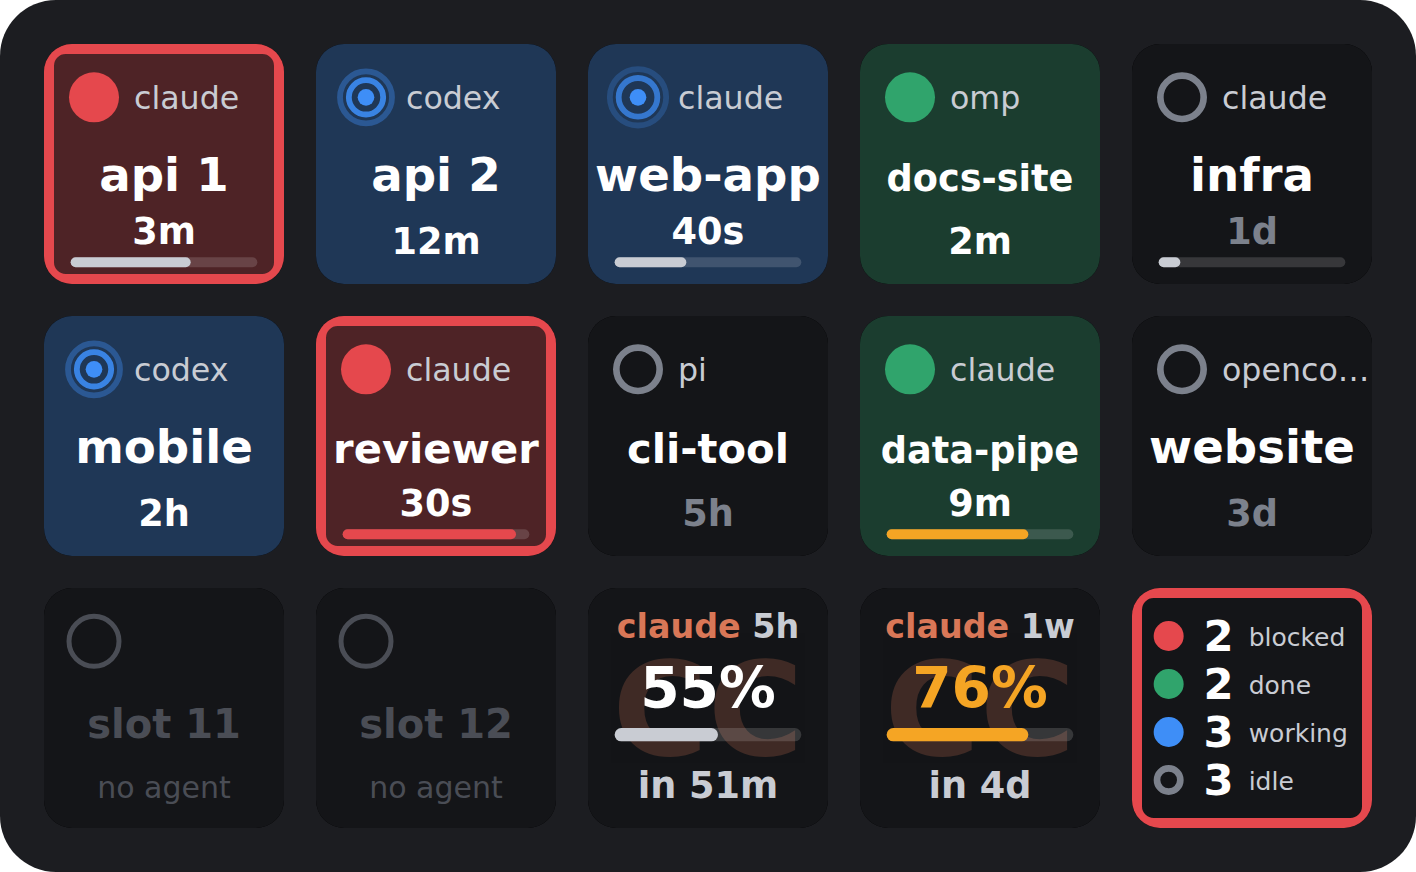
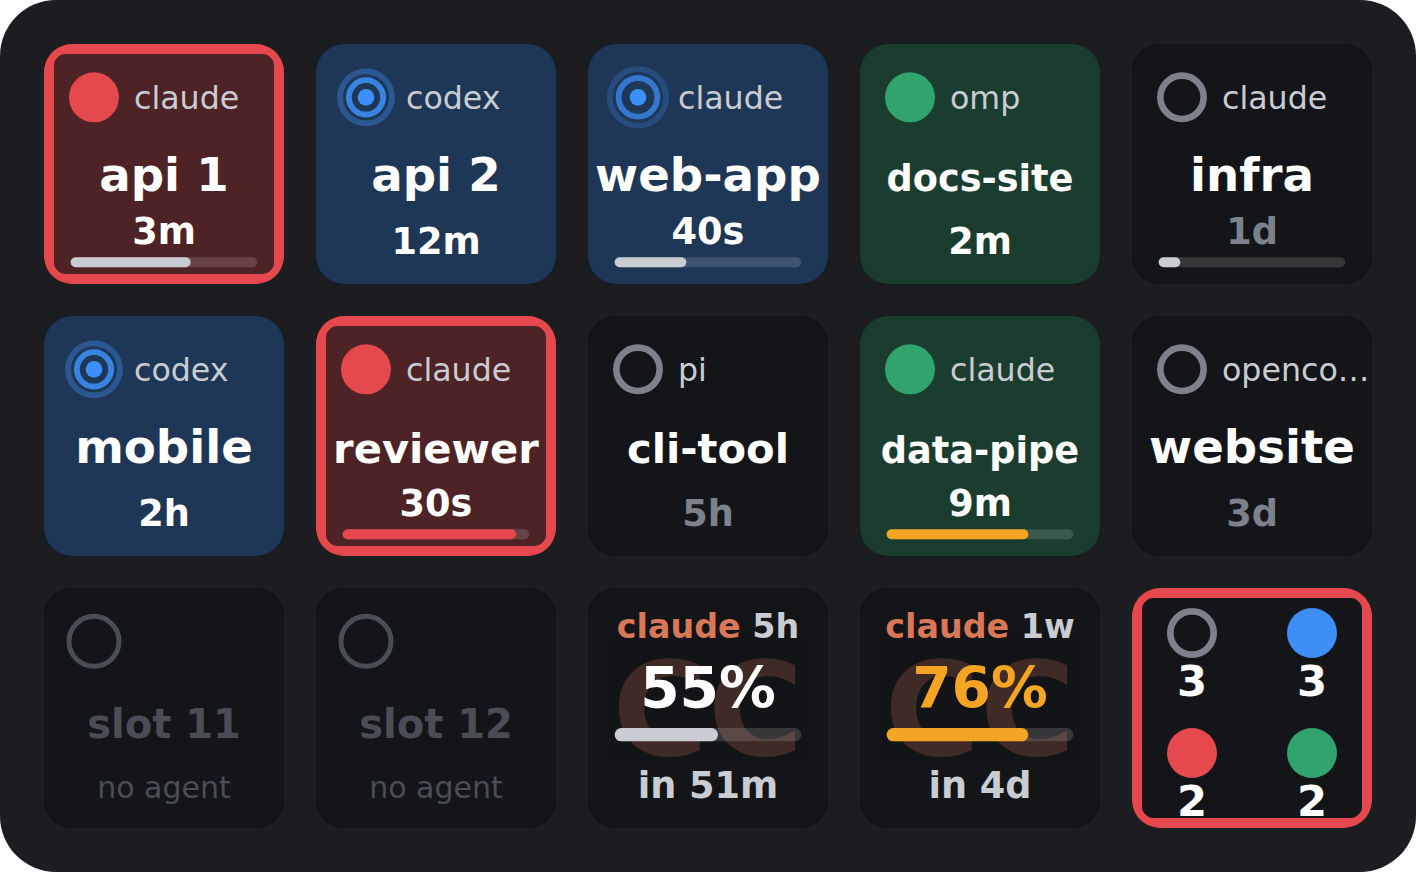
redesign summary button, show dot + number only

Changed region(s): [[0.8079, 0.6812, 0.9633, 0.9599]]

diff --git a/src/render.ts b/src/render.ts
@@ -175,28 +175,34 @@ export function renderOffline(): string {
 	);
 }
 
-// Counts for every status that has at least one agent; blocked first.
-export function renderSummary(counts: Partial<Record<Status, number>>, { flashOn = false } = {}): string {
-	const rows = (["blocked", "done", "working", "idle"] as const).filter((s) => (counts[s] ?? 0) > 0);
-	const alert = (counts.blocked ?? 0) > 0;
-	const bg = alert && flashOn ? BG_ALERT : BG;
-	if (rows.length === 0) {
-		return svg(bg, text(72, 66, 26, "#c9ccd3", "herdr", { weight: 700, anchor: "middle" }) + text(72, 98, 18, COLORS.off, "no agents", { anchor: "middle" }));
+// Counts in a fixed 2x2 grid (idle, working / blocked, done), number under the dot, so
+// each status always sits in the same corner. Dots match the agent keys (static);
+// zero counts are dimmed, dot included. A red outline marks blocked agents; it
+// doesn't blink, the agent keys do that.
+export function renderSummary(counts: Partial<Record<Status, number>>): string {
+	const total = (["blocked", "done", "working", "idle"] as const).reduce((n, s) => n + (counts[s] ?? 0), 0);
+	if (total === 0) {
+		return svg(BG, text(72, 66, 26, "#c9ccd3", "herdr", { weight: 700, anchor: "middle" }) + text(72, 98, 18, COLORS.off, "no agents", { anchor: "middle" }));
 	}
-	const words = { blocked: "blocked", done: "done", working: "working", idle: "idle" } as const;
-	const step = 144 / (rows.length + 1);
-	const body = rows
-		.map((s, i) => {
-			const y = step * (i + 1);
-			return (
-				dot(22, y, 9, s) +
-				text(52, y + 9, 26, "#ffffff", String(counts[s] ?? 0), { weight: 700, anchor: "middle" }) +
-				text(70, y + 6, 15, "#c9ccd3", words[s])
-			);
+	const cells = [
+		["idle", 0, 0],
+		["working", 72, 0],
+		["blocked", 0, 72],
+		["done", 72, 72],
+	] as const;
+	const body = cells
+		.map(([status, x, y]) => {
+			const n = counts[status] ?? 0;
+			const label = n > 99 ? "99+" : String(n);
+			const cx = x + 36;
+			const cy = y + 27;
+			// Zero counts keep their color, dimmed, so the grid still reads by color.
+			const mark = n > 0 ? dot(cx, cy, 15, status) : `<g opacity="0.35">${dot(cx, cy, 15, status)}</g>`;
+			return mark + text(cx, y + 65, label.length > 2 ? 20 : 26, n > 0 ? "#ffffff" : COLORS.off, label, { weight: 700, anchor: "middle" });
 		})
 		.join("");
-	const border = alert ? `<rect x="3" y="3" width="138" height="138" rx="10" fill="none" stroke="${COLORS.blocked}" stroke-width="6"/>` : "";
-	return svg(bg, border + body);
+	const border = (counts.blocked ?? 0) > 0 ? `<rect x="3" y="3" width="138" height="138" rx="10" fill="none" stroke="${COLORS.blocked}" stroke-width="6"/>` : "";
+	return svg(BG, border + body);
 }
 
 const CLAUDE_ORANGE = "#d97757";

diff --git a/src/plugin.ts b/src/plugin.ts
@@ -51,7 +51,7 @@ const watcher = new HerdrWatcher({ socketPath: resolveSocketPath(), log });
 function imageFor(key: Key): string {
 	if (!watcher.connected) return renderOffline();
 	if (key.action === SUMMARY_ACTION) {
-		return renderSummary(countByStatus(watcher.agents), { flashOn: Boolean(key.settings.flash) && flashOn });
+		return renderSummary(countByStatus(watcher.agents));
 	}
 	if (key.action === USAGE_ACTION) {
 		const window = key.settings.usageWindow ?? "5h";
@@ -126,7 +126,6 @@ function updateAnimation(): void {
 	const needed =
 		watcher.connected &&
 		[...keys.values()].some((key) => {
-			if (key.action === SUMMARY_ACTION) return Boolean(key.settings.flash) && watcher.agents.some((a) => a.status === "blocked");
 			if (key.action !== AGENT_ACTION) return false;
 			const status = resolveAgent(watcher.agents, key.settings)?.status;
 			return (status === "blocked" && key.settings.flash) || (status === "working" && key.settings.animate !== false);
@@ -208,10 +207,6 @@ sd.on("willAppear", ({ context, action, device, payload }) => {
 	if (action === AGENT_ACTION && (settings.contextBar === undefined || settings.animate === undefined)) {
 		settings.contextBar ??= true;
 		settings.animate ??= true;
-		sd.setSettings(context, settings);
-	}
-	if (action === SUMMARY_ACTION && settings.flash === undefined) {
-		settings.flash = true;
 		sd.setSettings(context, settings);
 	}
 	keys.set(context, { action, device: device ?? "", settings });

diff --git a/src/window.ts b/src/window.ts
@@ -64,7 +64,8 @@ export function parseWmctrl(out: string): { id: string; pid: number }[] {
 }
 
 async function processes(): Promise<Proc[]> {
-	const { stdout } = await run("ps", ["-eo", "pid=,ppid=,args="], { maxBuffer: 8 << 20 });
+	// -ww: BSD ps cuts args to the terminal width otherwise.
+	const { stdout } = await run("ps", ["-ww", "-eo", "pid=,ppid=,args="], { maxBuffer: 8 << 20 });
 	return parsePs(stdout);
 }
 
@@ -96,9 +97,11 @@ export function appBundle(args: string): string | null {
 export function bundleMainPid(procs: readonly Proc[], pid: number): number {
 	const bundle = appBundle(procs.find((p) => p.pid === pid)?.args ?? "");
 	if (!bundle) return pid;
+	// The app itself is launched by launchd (ppid 1); helpers like wezterm-mux-server
+	// or a CLI started from a shell are not. Lowest pid breaks any remaining tie.
 	const main = procs
 		.filter((p) => p.args.startsWith(`${bundle}/Contents/MacOS/`) && !p.args.slice(bundle.length).includes(".app/"))
-		.sort((a, b) => a.pid - b.pid)[0];
+		.sort((a, b) => Number(b.ppid === 1) - Number(a.ppid === 1) || a.pid - b.pid)[0];
 	return main?.pid ?? pid;
 }
 

diff --git a/test/render.test.ts b/test/render.test.ts
@@ -63,9 +63,11 @@ describe("render", () => {
 		assert.equal(msUntilCountdownLabel(2 * 3_600_000 + 5_000), 5_001);
 		assert.equal(msUntilCountdownLabel(0), Infinity);
 	});
-	it("summary lists only non-zero statuses", () => {
-		const svg = decode(renderSummary({ blocked: 0, working: 2, done: 0, idle: 1 }));
-		assert.ok(svg.includes("working") && svg.includes("idle") && !svg.includes("blocked"));
+	it("summary shows a count per status, outlined when something is blocked", () => {
+		const svg = decode(renderSummary({ blocked: 0, working: 2, done: 0, idle: 12 }));
+		assert.ok(svg.includes(">2<") && svg.includes(">12<") && svg.includes(">0<"));
+		assert.ok(!svg.includes(`stroke="${COLORS.blocked}"`));
+		assert.ok(decode(renderSummary({ blocked: 1 })).includes(`stroke="${COLORS.blocked}"`));
 		assert.ok(decode(renderSummary({ blocked: 0, working: 0, done: 0, idle: 0 })).includes("no agents"));
 	});
 	it("renders placeholders", () => {

diff --git a/assets/pi/summary.html b/assets/pi/summary.html
@@ -5,7 +5,6 @@
 	<link rel="stylesheet" href="style.css" />
 </head>
 <body>
-	<div class="row"><label for="flash">Flash when blocked</label><input id="flash" type="checkbox" data-setting="flash" /></div>
 	<div class="hint">Press to jump to the agent that needs you (or just finished).</div>
 	<h4>All keys</h4>
 	<div class="row">

diff --git a/README.md b/README.md
@@ -29,7 +29,7 @@ The elapsed time counts from when the plugin saw the status change: herdr doesn'
   - *A specific agent*: pinned to one agent. It's matched by agent session, so the pin survives a herdr restart.
 
   New keys take the next free slot automatically. Options: skip idle agents, blink when blocked, rippling dot while working, tinted or plain background, show the pane title instead of the agent type, context bar.
-- **Summary**: counts agents per status and turns red when any agent is blocked. Press it to jump to the most urgent agent.
+- **Summary**: agent counts per status in a 2×2 grid (idle, working / blocked, done), outlined in red when any agent is blocked. Press it to jump to the most urgent agent.
 - **Usage (Claude)**: Claude plan usage and time until it resets, for the 5-hour (`5h`) or weekly (`1w`) window. Press to switch. Shows the highest value any live Claude session reported, since usage only grows within a window. Needs the [Claude Code adapter](#harness-adapters).
 
 ## Harness adapters
@@ -50,9 +50,12 @@ It prints a short `[model] 42% context` line. To keep your own status line, appe
 `.../statusline.sh ~/.claude/my-statusline.sh`. Claude Code updates the status line after each
 message, so the bar follows with that delay. This costs nothing: the status line is a local
 script fed data Claude Code already has, with no extra API calls. Plan usage is account-wide but
-only reported with Claude's own API responses, so it can lag while every session is idle. Outside herdr the script only prints the status line.
-The plugin ignores values left behind by an earlier Claude session in the same pane; that check needs
-herdr's Claude integration (`herdr integration install claude`), which herdr uses to track sessions.
+only reported with Claude's own API responses, so it can lag while every session is idle.
+Outside herdr the script only prints the status line.
+
+The plugin ignores values left behind by an earlier Claude session in the same pane. That check
+needs herdr's Claude integration (`herdr integration install claude`), which herdr uses to track
+sessions.
 
 Codex and omp adapters are planned; the token names are in [docs/plan.md](docs/plan.md).
 
